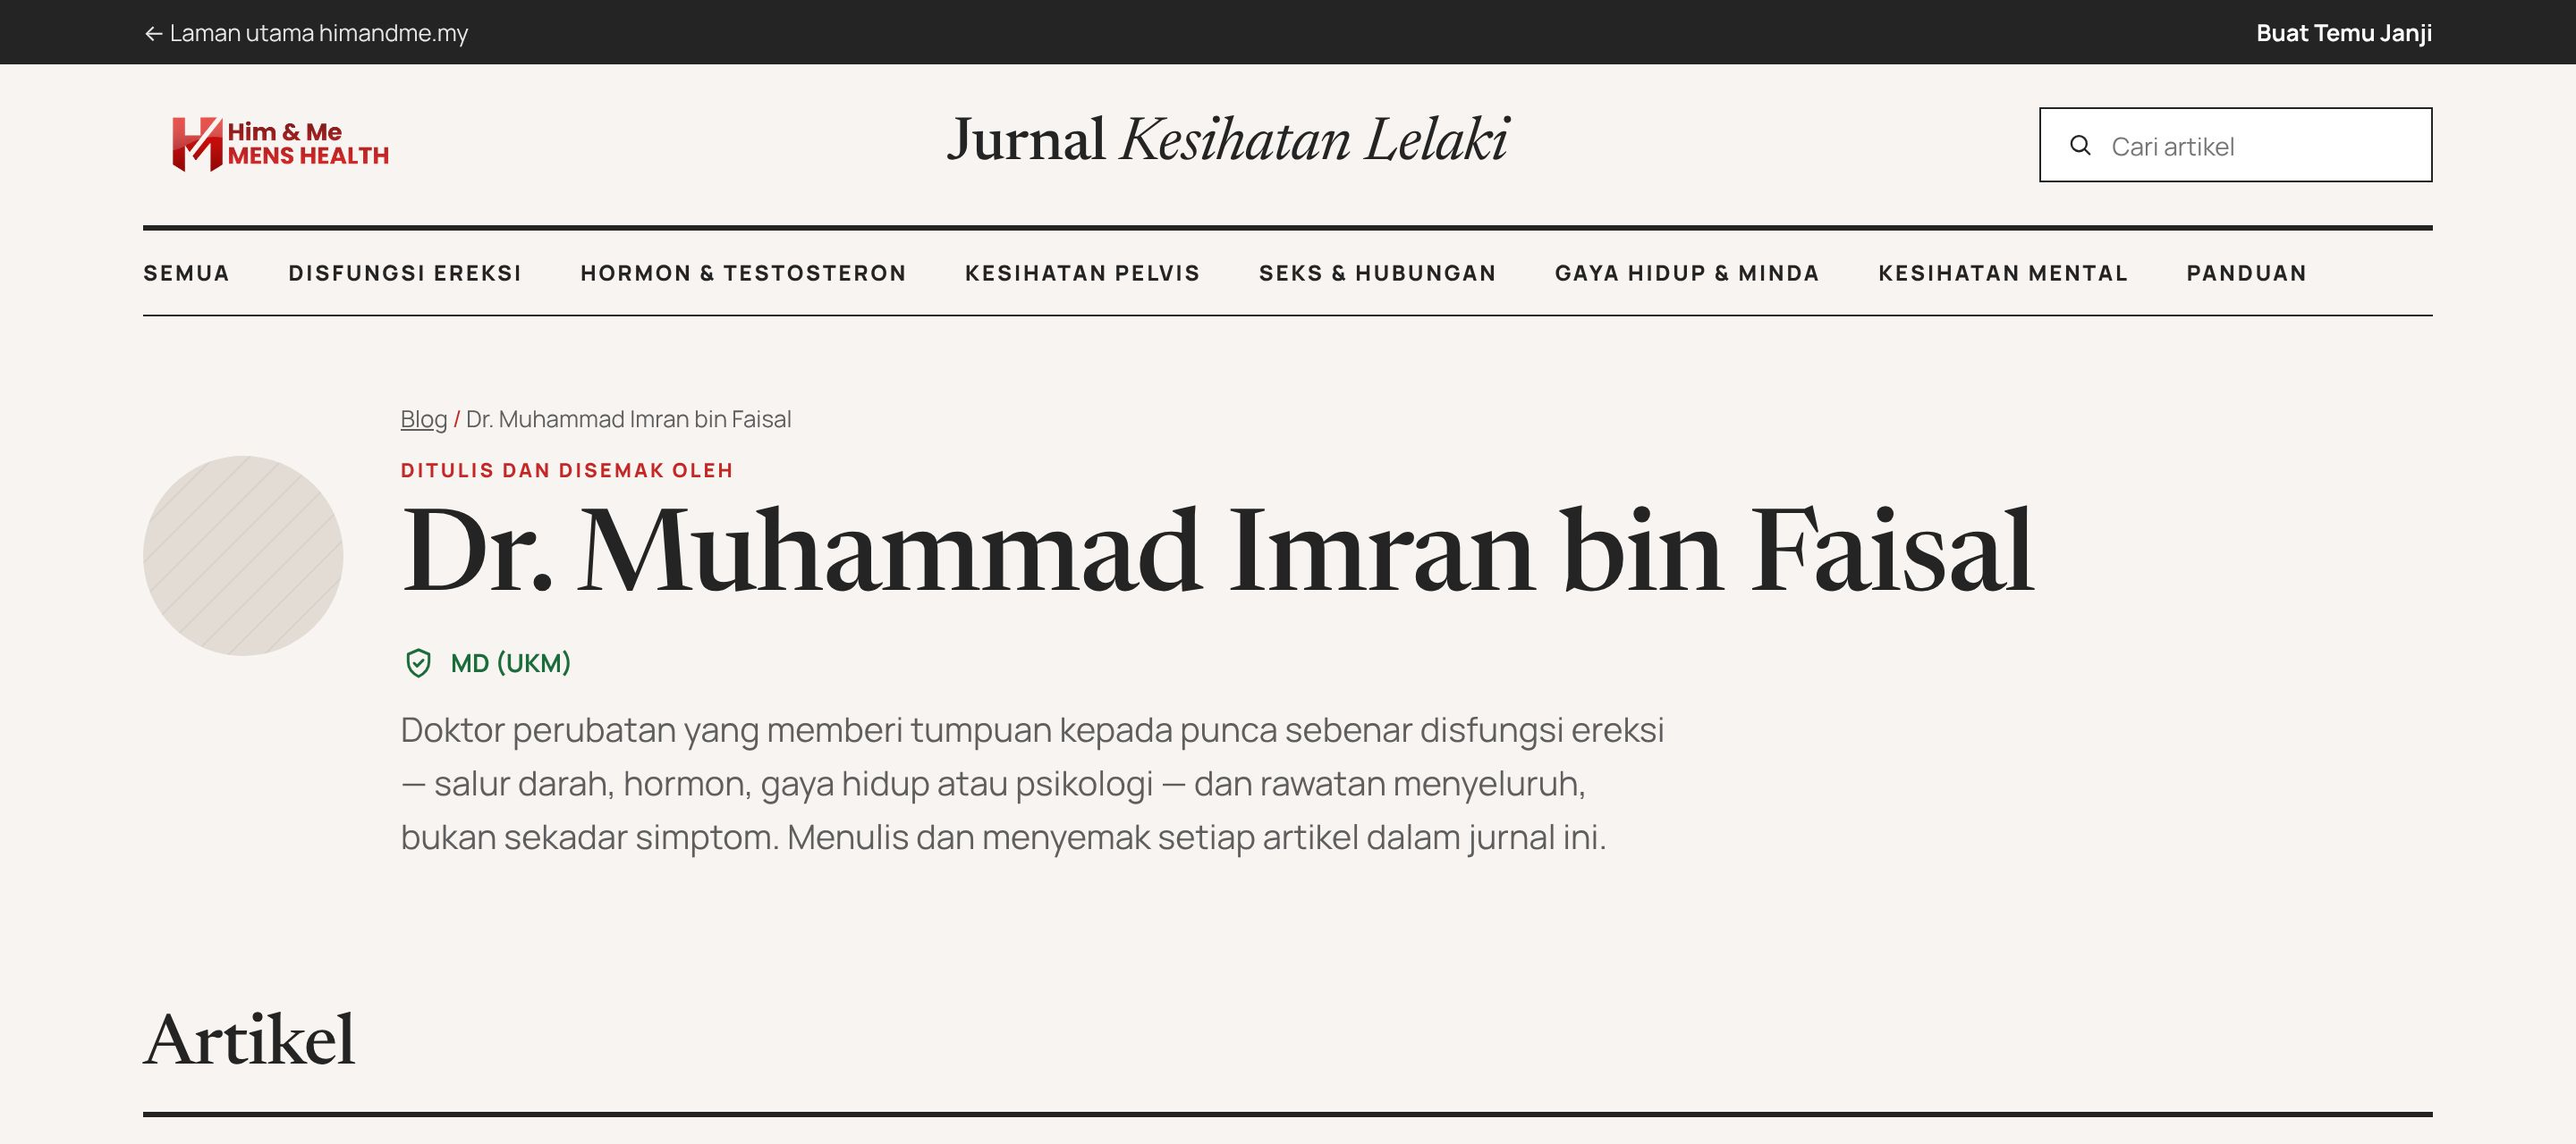
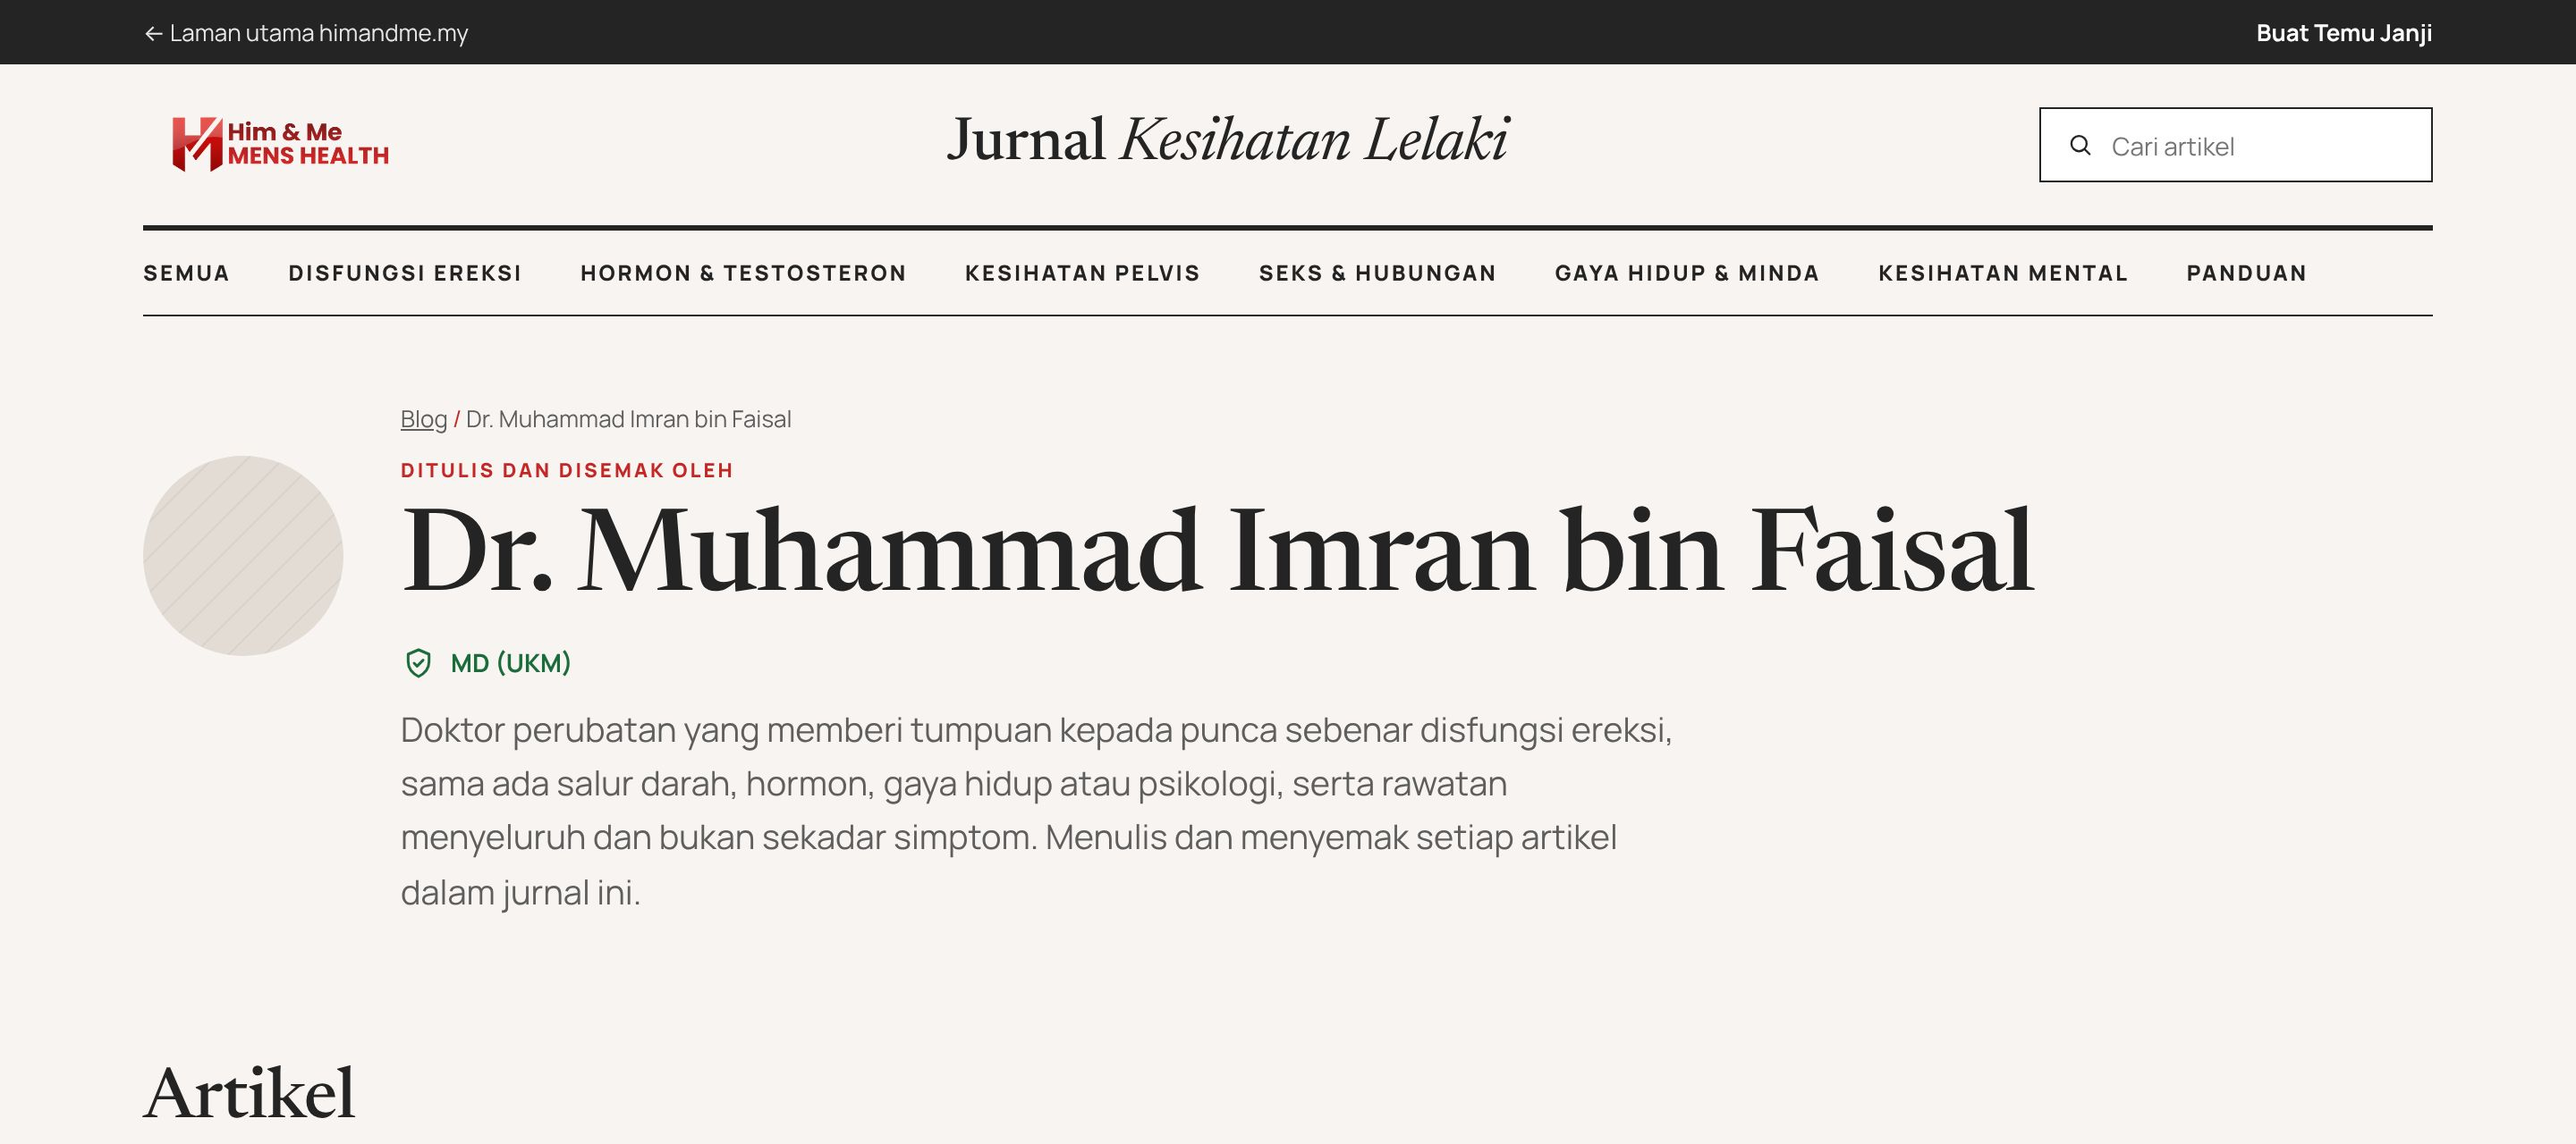
Stage 5: author screenshots with the dash-free biography
Claude-Session: https://claude.ai/code/session_01U2VADpihLRmBJD5br2Zc9P

Changed region(s): [[0.1562, 0.6562, 0.625, 0.8125], [0.0625, 0.875, 0.9375, 1.0]]

diff --git a/docs/STAGE-5-REPORT.md b/docs/STAGE-5-REPORT.md
@@ -103,7 +103,7 @@ The blog home is unchanged: the Panduan band sits between the list and the box. 
   - `full-blog-page-2-*`, `full-topic-*`, `full-author-*`
 - **Search:** `search-desktop`, `search-desktop-none`, `search-mobile`, `search-nojs-desktop` (JavaScript off)
 - **Spacing follow-up:** `full-topic-hormon-desktop`, `full-topic-hormon-mobile`
-- **Author page with the doctor's details (local test profile only):** `author-real-desktop`, `author-real-mobile`. Name "Dr. Muhammad Imran bin Faisal", credentials "MD (UKM)", draft biography (227 of Ghost's 250 characters). At launch, enter these in Ghost Admin → Staff and the `doctor_credentials` setting.
+- **Author page with the doctor's details (local test profile only):** `author-real-desktop`, `author-real-mobile`. Name "Dr. Muhammad Imran bin Faisal", credentials "MD (UKM)", draft biography without dashes (239 of Ghost's 250 characters). At launch, enter these in Ghost Admin → Staff and the `doctor_credentials` setting.
 - **Refinements:** `cats-mobile`, `cats-mobile-scrolled` (short phone labels), `topic-gaya-hidup-desktop`, `topic-gaya-hidup-mobile`
 
 ## Safeguards preserved
